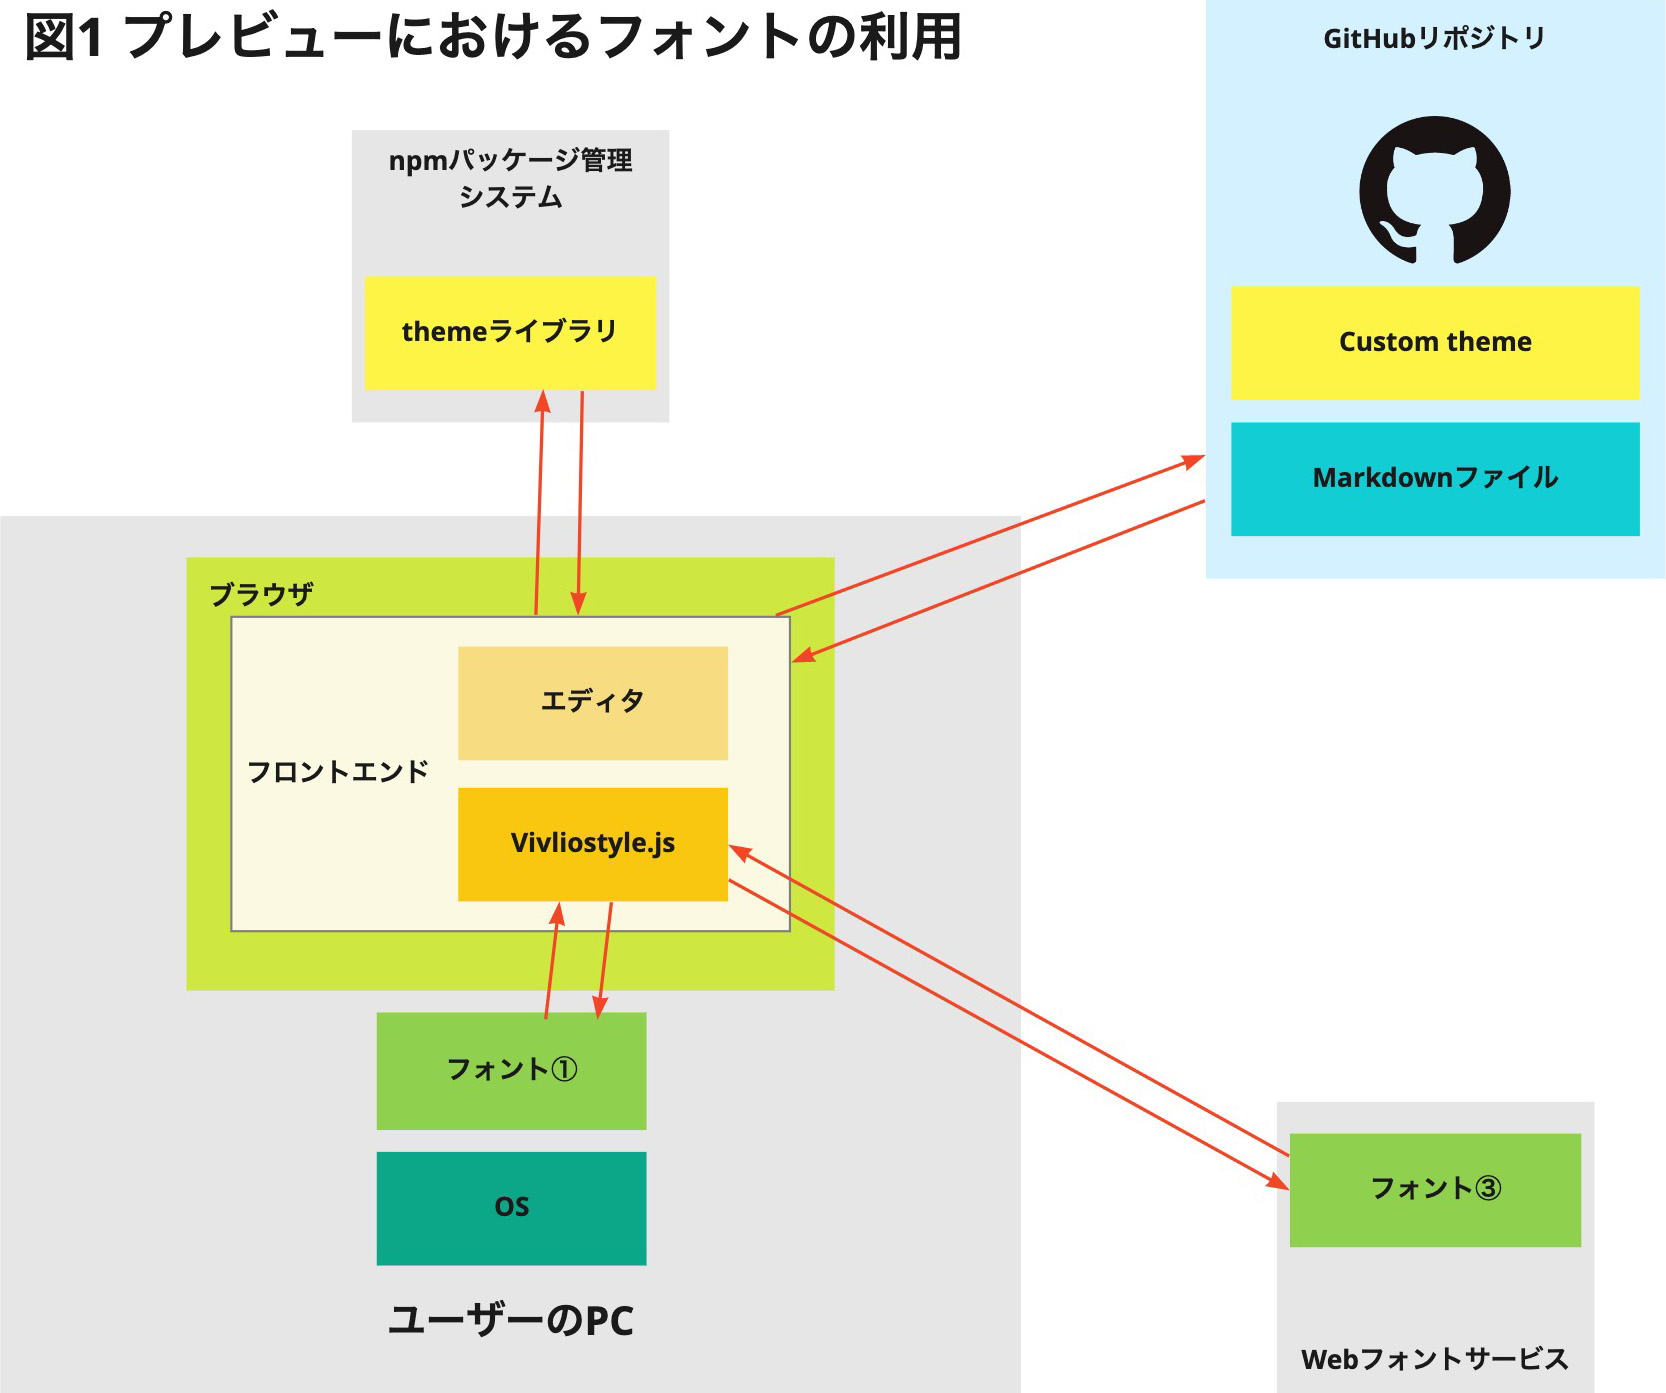
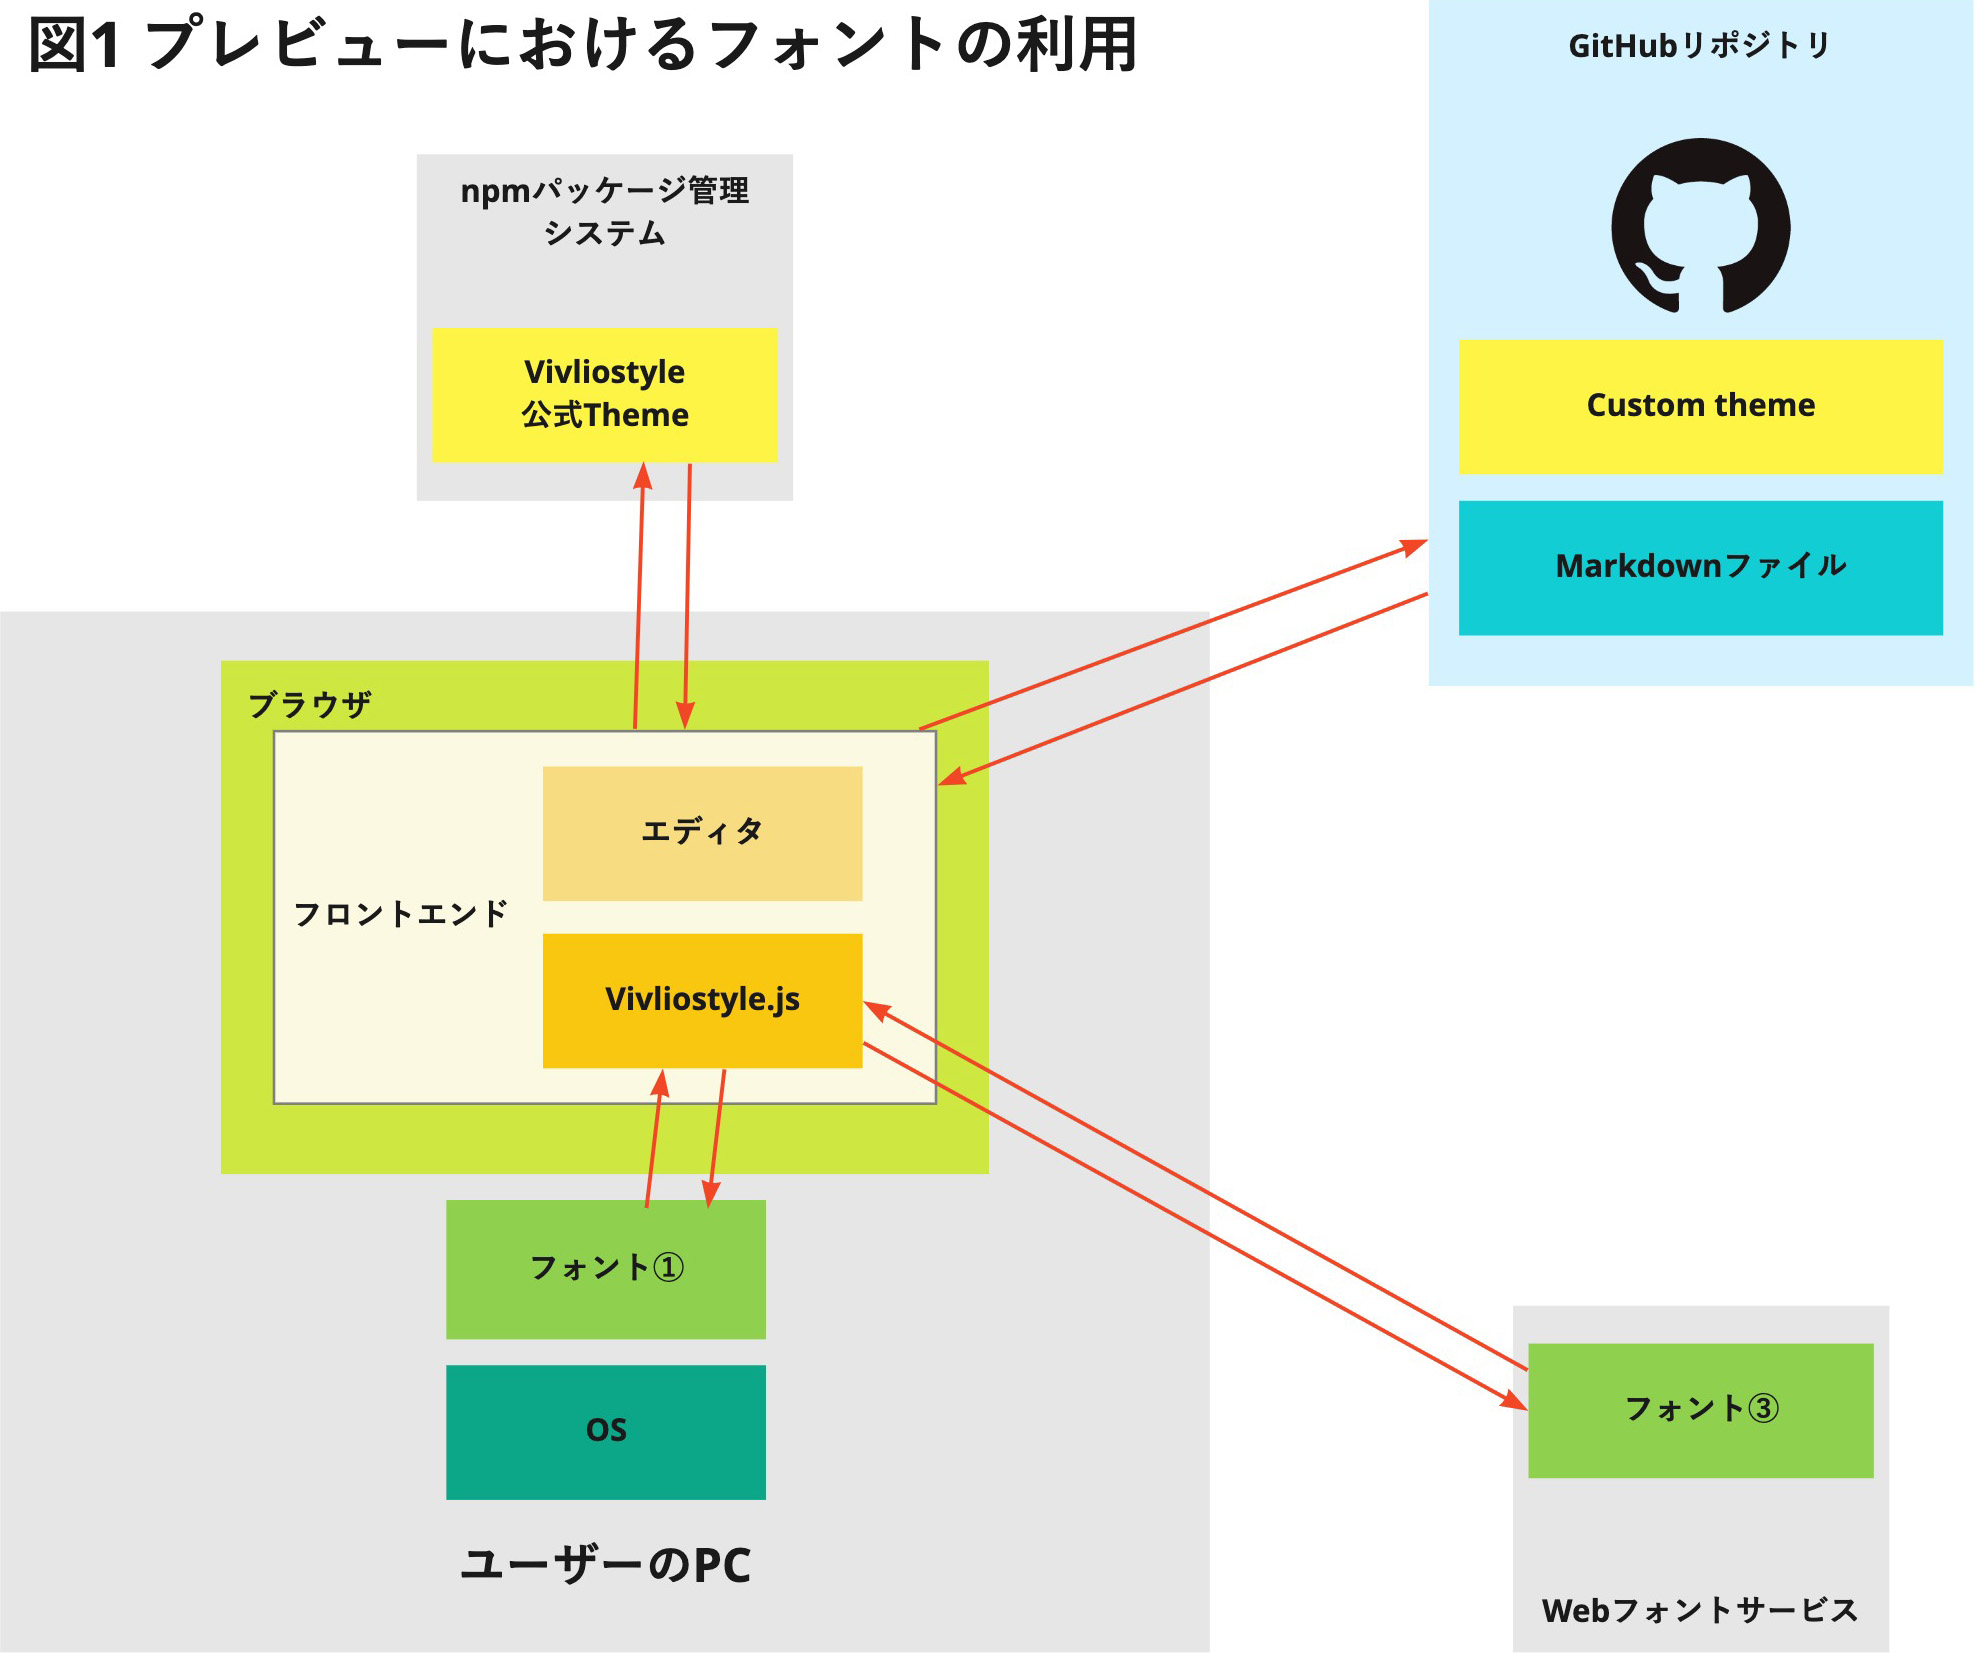
フォントの指定方法、途中まで

diff --git a/ja/functions-of-the-actions-menu/theme.md b/ja/functions-of-the-actions-menu/theme.md
@@ -54,7 +54,7 @@ module.exports = {
 
 ![ ](images/functions-of-the-actions-menu/theme/fig-4.png)
 
-Vivliostyleが [npm package として公開](https://www.npmjs.com/package/@vivliostyle/theme-bunko)している公式Theme、[@vivliostyle/theme-gutenberg](https://vivliostyle.github.io/themes/#/ja/gallery#vivliostyletheme-gutenberg)そのものです。以下にその一部を引用します。
+これはVivliostyleが [npm package として公開](https://www.npmjs.com/package/@vivliostyle/theme-bunko)している公式Theme、[@vivliostyle/theme-gutenberg](https://vivliostyle.github.io/themes/#/ja/gallery#vivliostyletheme-gutenberg)そのものです。以下にその一部を引用します。
 
 ```css
 html {
@@ -77,7 +77,7 @@ html {
 
 ここで指定されるフォントについては下記もご参照ください。
 
-- 参考：[themeライブラリのフォント利用](/ja/create-and-save-documents/how-to-specify-fonts.md#themeライブラリのフォント利用)
+- 参考：[vivliostyle公式themeのフォント利用](/ja/create-and-save-documents/how-to-specify-fonts.md#vivliostyle公式themeのフォント利用)
 
 ## 文庫用のテーマ
 
@@ -85,7 +85,7 @@ html {
 
 ![ ](images/functions-of-the-actions-menu/theme/fig-5.png)
 
-Vivliostyleが [npm package として公開](https://www.npmjs.com/package/@vivliostyle/theme-bunko)している公式Theme、[@vivliostyle/theme-bunko](https://vivliostyle.github.io/themes/#/ja/gallery#vivliostyletheme-bunko)そのものです。以下にその一部を引用します。
+これはVivliostyleが [npm package として公開](https://www.npmjs.com/package/@vivliostyle/theme-bunko)している公式Theme、[@vivliostyle/theme-bunko](https://vivliostyle.github.io/themes/#/ja/gallery#vivliostyletheme-bunko)そのものです。以下にその一部を引用します。
 
 ```css
 html {
@@ -106,7 +106,7 @@ html {
 
 ここで指定されるフォントについては下記もご参照ください。
 
-- 参考：[themeライブラリのフォント利用](/ja/create-and-save-documents/how-to-specify-fonts.md#themeライブラリのフォント利用)
+- 参考：[vivliostyle公式themeのフォント利用](/ja/create-and-save-documents/how-to-specify-fonts.md#vivliostyle公式themeのフォント利用)
 
 ## Slide theme
 
@@ -114,7 +114,7 @@ html {
 
 ![ ](images/functions-of-the-actions-menu/theme/fig-6.png)
 
-Vivliostyleが [npm package として公開](https://www.npmjs.com/package/@vivliostyle/theme-slide)している公式Theme、[@vivliostyle/theme-slide](https://vivliostyle.github.io/themes/#/ja/gallery#vivliostyletheme-slide)そのものです。以下にその一部を引用します。
+これはVivliostyleが [npm package として公開](https://www.npmjs.com/package/@vivliostyle/theme-slide)している公式Theme、[@vivliostyle/theme-slide](https://vivliostyle.github.io/themes/#/ja/gallery#vivliostyletheme-slide)そのものです。以下にその一部を引用します。
 
 ```css
 html {
@@ -144,7 +144,7 @@ html {
 
 ここで指定されるフォントについては下記もご参照ください。
 
-- 参考：[themeライブラリのフォント利用](/ja/create-and-save-documents/how-to-specify-fonts.md#themeライブラリのフォント利用)
+- 参考：[vivliostyle公式themeのフォント利用](/ja/create-and-save-documents/how-to-specify-fonts.md#vivliostyle公式themeのフォント利用)
 
 ## Techbook (技術同人誌) theme
 
@@ -152,7 +152,7 @@ html {
 
 ![ ](images/functions-of-the-actions-menu/theme/fig-8.png)
 
-Vivliostyleが [npm package として公開](https://www.npmjs.com/package/@vivliostyle/theme-techbook)している公式Theme、[@vivliostyle/theme-techbook](https://vivliostyle.github.io/themes/#/ja/gallery#vivliostyletheme-techbook)そのものです。以下にその一部を引用します。
+これはVivliostyleが [npm package として公開](https://www.npmjs.com/package/@vivliostyle/theme-techbook)している公式Theme、[@vivliostyle/theme-techbook](https://vivliostyle.github.io/themes/#/ja/gallery#vivliostyletheme-techbook)そのものです。以下にその一部を引用します。
 
 ```css
 :root {
@@ -182,7 +182,7 @@ Vivliostyleが [npm package として公開](https://www.npmjs.com/package/@vivl
 
 ここで指定されるフォントについては下記もご参照ください。
 
-- 参考：[themeライブラリのフォント利用](/ja/create-and-save-documents/how-to-specify-fonts.md#themeライブラリのフォント利用)
+- 参考：[vivliostyle公式themeのフォント利用](/ja/create-and-save-documents/how-to-specify-fonts.md#vivliostyle公式themeのフォント利用)
 
 ## Academic theme
 
@@ -190,7 +190,7 @@ Vivliostyleが [npm package として公開](https://www.npmjs.com/package/@vivl
 
 ![ ](images/functions-of-the-actions-menu/theme/fig-9.png)
 
-Vivliostyleが [npm package として公開](https://www.npmjs.com/package/@vivliostyle/theme-academic)している公式Theme、[@vivliostyle/theme-academic](https://vivliostyle.github.io/themes/#/ja/gallery#vivliostyletheme-academic)そのものです。以下にその一部を引用します。
+これはVivliostyleが [npm package として公開](https://www.npmjs.com/package/@vivliostyle/theme-academic)している公式Theme、[@vivliostyle/theme-academic](https://vivliostyle.github.io/themes/#/ja/gallery#vivliostyletheme-academic)そのものです。以下にその一部を引用します。
 
 ```css
 @page {
@@ -210,4 +210,4 @@ html {
 
 ここで指定されるフォントについては下記もご参照ください。
 
-- 参考：[themeライブラリのフォント利用](/ja/create-and-save-documents/how-to-specify-fonts.md#themeライブラリのフォント利用)
+- 参考：[vivliostyle公式themeのフォント利用](/ja/create-and-save-documents/how-to-specify-fonts.md#vivliostyle公式themeのフォント利用)
